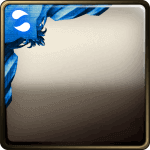
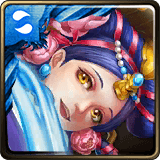
new card image

diff --git a/app/src/main/java/com/project/tos_project/SelectCardActivity.java b/app/src/main/java/com/project/tos_project/SelectCardActivity.java
@@ -40,6 +40,7 @@ public class SelectCardActivity extends ActionBarActivity{
     List<String> mThumbIds = new ArrayList<String>();
     Cursor cursor;
     Home h = new Home();
+    int cut = 4;
     int[] combinCard = h.combinCard;
     public final static int RESULT_CODE  = 2;
     @Override
@@ -59,7 +60,14 @@ public class SelectCardActivity extends ActionBarActivity{
             cursor = dbHelper.query(db, "SELECT CARD_ID as cardNo FROM CARD", null);
             while (cursor.moveToNext()) {
                 String cardNo = cursor.getString(cursor.getColumnIndex("cardNo"));
-                mThumbIds.add("card/card-" + cardNo + ".png");
+                String imagPathOpen = "card-";
+                for(int i=0; i<combinCard.length; i++){
+                    if(combinCard[i] == Integer.parseInt(cardNo)) {
+                        imagPathOpen = "cardMin-";
+                        break;
+                    }
+                }
+                mThumbIds.add("card/"+ imagPathOpen + cardNo + ".png");
             }
         } catch (SQLiteException e) {
             Toast.makeText(this, e.getMessage(), Toast.LENGTH_LONG).show();

diff --git a/app/src/main/java/com/project/tos_project/Home.java b/app/src/main/java/com/project/tos_project/Home.java
@@ -38,7 +38,7 @@ public class Home extends ActionBarActivity{
     int[] selectedCard = {0,0,0,0,0,0};
     int[] cardLevel = {0,0,0,0,0,0};
     int[] disableCard = {-1,-1,-1,-1,-1,-1};
-    int[] combinCard = {1,2,5};
+    int[] combinCard = {620, 656, 657, 658, 659, 660, 666, 667, 668, 669, 670, 721, 722, 723, 724, 725};
     public final static String SER_KEY = "com.project.tos_project.model.ser";
 
     @Override
@@ -165,6 +165,7 @@ public class Home extends ActionBarActivity{
                         cardLevel[index+1] = 0;
                     }
                 }
+
                 printButton();
                 tv.setText(cardNum);
             }
@@ -217,6 +218,7 @@ public class Home extends ActionBarActivity{
     }
 
     public void printButton(){
+
         for(int i=0; i<selectedCard.length; i++) {
             if(selectedCard[i] != 0) {
                 try {
